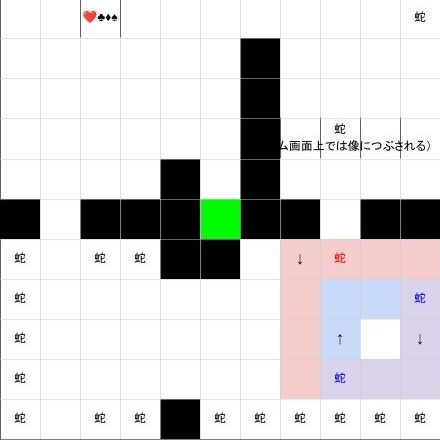
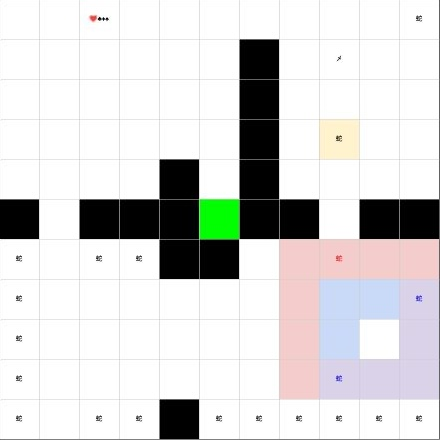
クリアまでいけることを確認

diff --git a/src/managers/snakeManager.js b/src/managers/snakeManager.js
@@ -57,12 +57,9 @@ function _ensureSpritesMatchMap() {
 function makeGameObjectForSnake(snakeDef) {
   // use static image for 'static' mode, red image for 'unclock' mode, default otherwise
   // Prefer using the normal snake image for static snakes to avoid requiring
-  // an additional file. Use red image for 'unclock' mode, default otherwise.
   let imgPath = "img/snake.png";
   if (snakeDef && snakeDef.mode === "static") {
     imgPath = "img/snake_static.png";
-  } else if (snakeDef && snakeDef.mode === "unclock") {
-    imgPath = "img/snake_red.png";
   }
   const g = new GameObject(
     snakeDef.path[snakeDef.index].x,
@@ -114,7 +111,6 @@ export async function initSnakes(appLayers, { autoFromMap = true } = {}) {
       // load images we actually ship: normal, red and dead variants
       await loadAssets([
         "img/snake.png",
-        "img/snake_red.png",
         "img/snake_static.png",
         "img/snake_dead.png",
       ]);

diff --git a/src/core/constants.js b/src/core/constants.js
@@ -664,9 +664,9 @@ export const SNAKE_DEFS = {
       ],
       startIndex: 0,
     },
-    // B1F: inner clockwise loop (snake A) starting at (10,7)
+    // B1F: inner unclockwise loop (snake A) starting at (10,7)
     {
-      mode: "clock",
+      mode: "unclock",
       path: [
         { x: 10, y: 7 },
         { x: 10, y: 8 },
@@ -679,9 +679,9 @@ export const SNAKE_DEFS = {
       ],
       startIndex: 0,
     },
-    // B1F: inner clockwise loop (snake B) starting at (8,9)
+    // B1F: inner unclockwise loop (snake B) starting at (8,9)
     {
-      mode: "clock",
+      mode: "unclock",
       path: [
         { x: 10, y: 7 },
         { x: 10, y: 8 },
